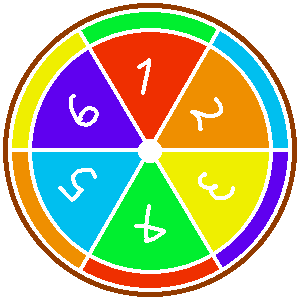
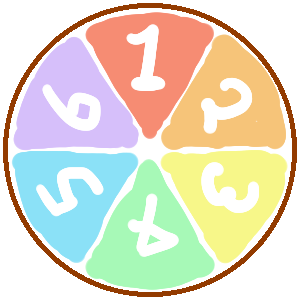
Update textures
ゆるめの画像に書き換えました

diff --git a/js/draw.js b/js/draw.js
@@ -18,10 +18,10 @@ function init() {
 	var far = 1000;
 	camera = new THREE.PerspectiveCamera( fov, aspect, near, far );
 	camera.position.y = 400;
-	camera.position.z = 500; //500
+	camera.position.z = 500;
 
 	// earth
-	var raidus = 450;
+	var raidus = 480;
 	var loader = new THREE.TextureLoader();
   var e_texture = loader.load( 'images/texture.png' );
 	var e_geometry = new THREE.SphereGeometry( 500, 32, 32 );
@@ -38,7 +38,6 @@ function init() {
 	var w_material = new THREE.MeshBasicMaterial( { color: 0x6bc550, map: w_texture } );
 	w_material.transparent = true;
 	for ( var i = 0; i < 40; i ++ ) {
-		//var w_geometry = new THREE.SphereGeometry( Math.random() * 40 + 20, 8, 8 );
 		wood = new THREE.Mesh( w_geometry, w_material );
 		var rad = degree * Math.PI / 180;
 		var y = raidus * Math.sin( rad );
@@ -48,7 +47,6 @@ function init() {
 		degree += 10;
 	}
 	for ( var i = 0; i < 40; i ++ ) {
-		//var w_geometry = new THREE.SphereGeometry( Math.random() * 40 + 20, 8, 8 );
 		wood = new THREE.Mesh( w_geometry, w_material );
 		var rad = degree * Math.PI / 180;
 		var y = raidus * Math.sin( rad );
